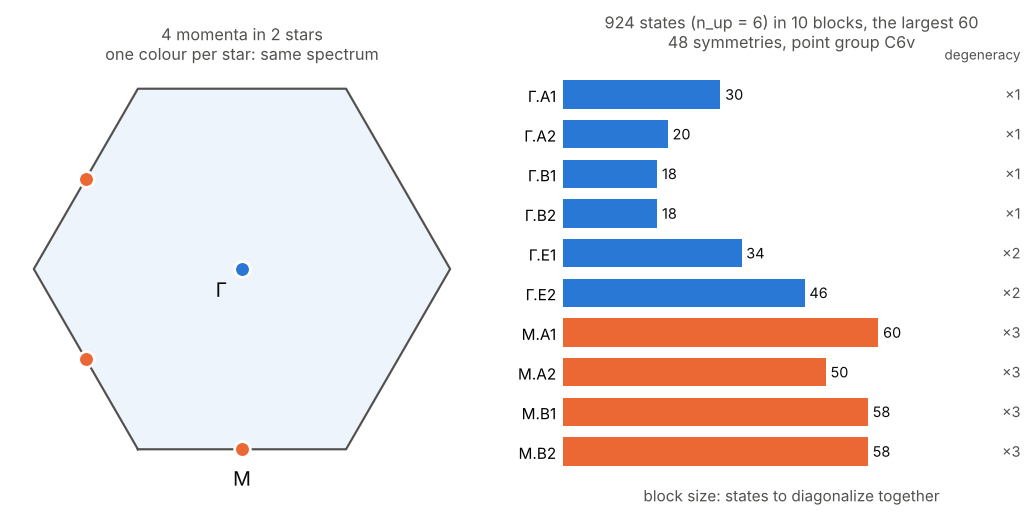
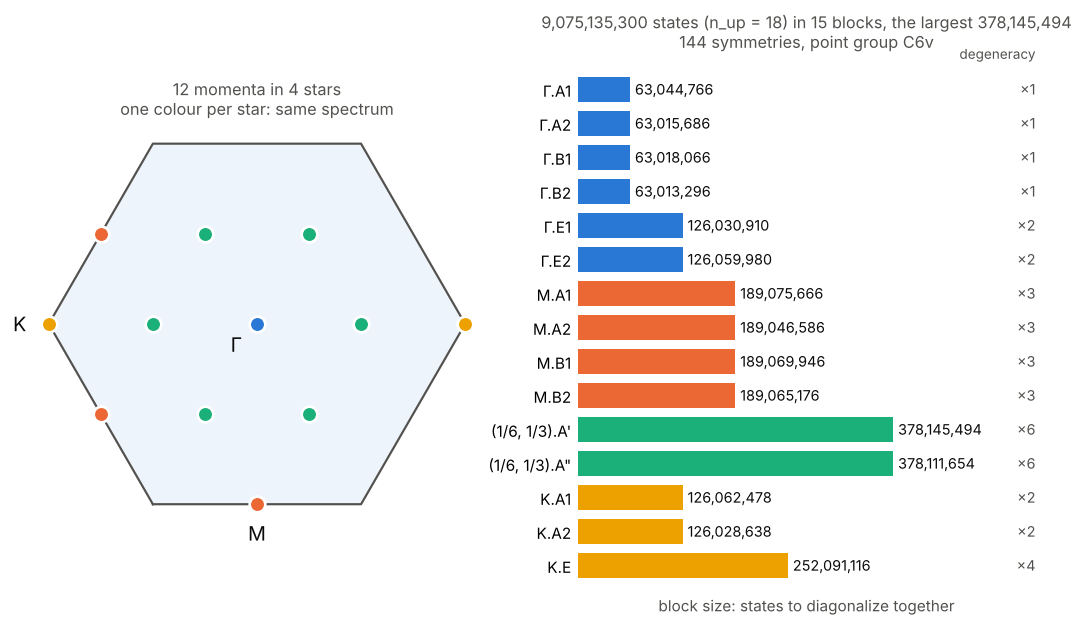
README: 36-site kagome cluster in the quick start
Its 12 momenta in 4 stars and 15 sectors show the symmetry analysis
better than the 12-site cluster; the impostor check stays at 12 sites.

Claude-Session: https://claude.ai/code/session_01DVqEEoJWxHpfrQqFLoobKy

diff --git a/scripts/plot_quickstart.py b/scripts/plot_quickstart.py
@@ -1,4 +1,4 @@
-"""Figure for the README quick start: the certified 12-site kagome cluster, drawn by cc.plot(details=True).
+"""Figure for the README quick start: the certified 36-site kagome cluster, drawn by cc.plot.
 
 Run from the repository root: python scripts/plot_quickstart.py -> docs/quickstart.png (a second).
 """
@@ -12,7 +12,7 @@ import matplotlib.pyplot as plt  # noqa: E402
 import clustercert as cc  # noqa: E402
 
 ROOT = Path(__file__).resolve().parents[1]
-result = cc.certify(cc.read_edges(ROOT / 'examples' / 'clusters' / 'kagome_12.txt'), 'kagome')
-cc.plot(result, details=True)
+result = cc.certify(cc.read_edges(ROOT / 'examples' / 'clusters' / 'kagome_36.txt'), 'kagome')
+cc.plot(result)
 plt.savefig(ROOT / 'docs' / 'quickstart.png', dpi=150, bbox_inches='tight', facecolor='white')
 print('wrote docs/quickstart.png')

diff --git a/scripts/plot_symmetry.py b/scripts/plot_symmetry.py
@@ -21,7 +21,7 @@ def save(name):
     print(f'wrote docs/{name}')
 
 
-cc.symmetry(cc.certify(cc.read_edges(CLUSTERS / 'kagome_12.txt'), 'kagome')).plot(n_up=6)
+cc.symmetry(cc.certify(cc.read_edges(CLUSTERS / 'kagome_36.txt'), 'kagome')).plot(n_up=18)
 save('symmetry_quickstart.png')
 cc.symmetry(cc.certify(cc.read_edges(CLUSTERS / 'kagome_36.txt'), 'kagome')).plot(n_up=18, mosaic=True)
 save('symmetry_mosaic.png')

diff --git a/README.md b/README.md
@@ -6,61 +6,71 @@ Check that a finite graph, such as the bond list of an exact-diagonalization clu
 
 ## Quick start
 
-Suppose someone hands you this 12-site bond list and says it is a kagome cluster with periodic boundary conditions:
+Suppose someone hands you this 36-site bond list and says it is a kagome cluster with periodic boundary conditions:
 
 ```python
 import clustercert as cc
 
-edges = [(0, 1), (0, 3), (0, 4), (0, 10), (1, 2), (1, 4), (1, 11), (2, 3), (2, 5), (2, 11), (3, 5), (3, 10),
-         (4, 6), (4, 9), (5, 7), (5, 8), (6, 7), (6, 9), (6, 10), (7, 8), (7, 10), (8, 9), (8, 11), (9, 11)]
+edges = [(0, 1), (0, 4), (0, 20), (0, 28), (1, 2), (1, 4), (1, 35), (2, 3), (2, 5), (2, 35), (3, 5), (3, 16),
+         (3, 21), (4, 9), (4, 10), (5, 11), (5, 12), (6, 7), (6, 16), (6, 31), (6, 34), (7, 8), (7, 16), (7, 32),
+         (8, 9), (8, 17), (8, 32), (9, 10), (9, 17), (10, 11), (10, 18), (11, 12), (11, 18), (12, 13), (12, 19),
+         (13, 14), (13, 19), (13, 29), (14, 15), (14, 20), (14, 29), (15, 20), (15, 30), (15, 33), (16, 21),
+         (17, 22), (17, 23), (18, 24), (18, 25), (19, 26), (19, 27), (20, 28), (21, 22), (21, 29), (22, 23),
+         (22, 29), (23, 24), (23, 30), (24, 25), (24, 30), (25, 26), (25, 31), (26, 27), (26, 31), (27, 28),
+         (27, 32), (28, 32), (30, 33), (31, 34), (33, 34), (33, 35), (34, 35)]
 result = cc.certify(edges, 'kagome')
 print(cc.summary(result))
-cc.plot(result, details=True)
+cc.plot(result)
 ```
 
 ```text
-YES: periodic kagome cluster, periods [[2, 0], [0, 2]]
+YES: periodic kagome cluster, periods [[2, 2], [0, 6]]
   periods (in primitive vectors -> Cartesian):
-    (2, 0) -> (2, 0)
-    (0, 2) -> (1, 1.732)
+    (4, -2) -> (3, -1.732)
+    (2, 2) -> (3, 1.732)
   site map, your label -> (unit cell, sublattice):
-    0 -> (0, 1), 1
-    1 -> (0, 1), 0
+    0 -> (0, 3), 1
+    1 -> (0, 3), 2
+    2 -> (1, 0), 1
     ...
-  4 allowed momenta (in reciprocal primitive vectors): (0, 0), (0, 1/2), (1/2, 0), (1/2, 1/2)
+  12 allowed momenta (in reciprocal primitive vectors): (0, 0), (0, 1/2), (1/6, 1/3), (1/6, 5/6), (1/3, 1/6), (1/3, 2/3), (1/2, 0), (1/2, 1/2), (2/3, 1/3), (2/3, 5/6), (5/6, 1/6), (5/6, 2/3)
 ```
 
 ![the certified cluster](docs/quickstart.png)
 
-That is your cluster, drawn with your own labels. Each shaded tile is one unit cell of the kagome lattice, labelled with its coordinates c in units of the primitive vectors a₁ and a₂ (the arrows below). Each site is coloured by its sublattice, one of the three sites of a unit cell. So site 9 is sublattice 0 of unit cell (0, 0), exactly as the site map says. A bond that wraps around the boundary ends on a dashed circle labelled with the site it wraps to. The site map is the certificate: under it, your 24 bonds are exactly the kagome bonds folded by those periods.
+That is your cluster, drawn with your own labels and folded into its supercell (the blue rhombus). A bond that wraps around the boundary ends on a dashed circle labelled with the site it wraps to. The site map is the certificate: under it, your 72 bonds are exactly the kagome bonds folded by those periods. `cc.plot(result, details=True)` draws the cluster in its unit cells instead, with sites coloured by sublattice, exactly as the site map lists them.
 
 The certificate also gives the cluster's symmetries, ready for exact diagonalization:
 
 ```python
 sym = cc.symmetry(result)
-print(sym.summary(n_up=6))
-sym.plot(n_up=6)
+print(sym.summary(n_up=18))
+sym.plot(n_up=18)
 ```
 
 ```text
-symmetry of the periodic kagome cluster, periods [[2, 0], [0, 2]]
-  12 sites, 48 lattice symmetries = 4 translations x 12 point operations (point group C6v; the infinite lattice has C6v, 12 operations)
+symmetry of the periodic kagome cluster, periods [[2, 2], [0, 6]]
+  36 sites, 144 lattice symmetries = 12 translations x 12 point operations (point group C6v; the infinite lattice has C6v, 12 operations)
   every automorphism of the bond graph is a lattice symmetry
   point operations: E, C6 x2, C3 x2, C2, σ x6
-  4 momenta in 2 stars, k in reciprocal primitive vectors:
-    name  k         star  little co-group  irreps, (dimension) if not 1
-    Γ     (0, 0)       1  C6v              A1 A2 B1 B2 E1(2) E2(2)
-    M     (0, 1/2)     3  C2v              A1 A2 B1 B2
-  block sizes (n_up = 6; each level is (star x dimension)-fold degenerate):
-    Γ: A1 30, A2 20, B1 18, B2 18, E1 34, E2 46
-    M: A1 60, A2 50, B1 58, B2 58
+  12 momenta in 4 stars, k in reciprocal primitive vectors:
+    name  k           star  little co-group  irreps, (dimension) if not 1
+    Γ     (0, 0)         1  C6v              A1 A2 B1 B2 E1(2) E2(2)
+    M     (0, 1/2)       3  C2v              A1 A2 B1 B2
+          (1/6, 1/3)     6  Cs               A' A"
+    K     (1/3, 2/3)     2  C3v              A1 A2 E(2)
+  block sizes (n_up = 18; each level is (star x dimension)-fold degenerate):
+    Γ: A1 63044766, A2 63015686, B1 63018066, B2 63013296, E1 126030910, E2 126059980
+    M: A1 189075666, A2 189046586, B1 189069946, B2 189065176
+    (1/6, 1/3): A' 378145494, A" 378111654
+    K: A1 126062478, A2 126028638, E 252091116
 ```
 
 ![the symmetry sectors of the cluster](docs/symmetry_quickstart.png)
 
-The cluster keeps the full hexagonal symmetry of kagome. Its 4 momenta form 2 *stars* (left: momenta of one colour have the same spectrum), and the operations that keep each momentum split it further into *irreps*. So the 924 states at zero magnetization split into 10 blocks of at most 60 (right), and each level in a block repeats as often as the number on the right. The permutations and characters behind each block are in `sym`; see [Symmetry sectors](#symmetry-sectors).
+Read it from the top. The cluster keeps all 12 rotations and reflections of the hexagon (the point group C6v), so it has 12 × 12 = 144 symmetries. Its 12 momenta fall into 4 *stars*: momenta that a rotation turns into each other, and that therefore have the same spectrum (left, one colour per star). At one momentum per star, the operations that keep that momentum (its *little co-group*) split the states further into *irreps*, named A1, E2 and so on. Each sector is labelled `momentum.irrep`, for example `Γ.A1` or `K.E`. At zero magnetization (18 up spins) the 9 075 135 300 states become 15 blocks of at most 378 million (right). Every level in `K.E` is 2 × 2 = 4-fold degenerate: a star of 2 times an irrep of dimension 2. If these words are new, [`docs/TERMINOLOGY.md`](docs/TERMINOLOGY.md) explains them from scratch, with pictures and a worked example on this cluster. The permutations and characters behind each block are in `sym`; see [Symmetry sectors](#symmetry-sectors).
 
-Now a second list. It also has 12 sites and 24 bonds, every site has 4 neighbours, and every site lies in two corner-sharing triangles, just as in kagome:
+Now a 12-site list. It has 24 bonds, every site has 4 neighbours, and every site lies in two corner-sharing triangles, just as in kagome:
 
 ```python
 impostor = [(0, 1), (0, 2), (0, 3), (0, 4), (1, 2), (1, 7), (1, 9), (2, 8), (2, 11), (3, 4), (3, 5), (3, 6),
@@ -72,7 +82,7 @@ print(cc.summary(cc.certify(impostor, 'kagome')))
 NO: not a periodic kagome cluster: none of the 7 possible supercells of 4 unit cells matches
 ```
 
-Every way of folding kagome into 12 sites was tried, and none gives this graph. Both lists are in [`examples/clusters/`](examples/clusters), so the same check runs from the shell: `clustercert examples/clusters/kagome_12.txt kagome`. Built-in lattices: square, triangular, honeycomb, kagome, checkerboard, cubic, bcc, fcc, diamond, pyrochlore.
+Every way of folding kagome into 12 sites was tried, and none gives this graph. Both lists are in [`examples/clusters/`](examples/clusters), so the same checks run from the shell: `clustercert examples/clusters/kagome_36.txt kagome --symmetry --n-up 18`. Built-in lattices: square, triangular, honeycomb, kagome, checkerboard, cubic, bcc, fcc, diamond, pyrochlore.
 
 The rest of this page explains what is going on, step by step. The tour notebook [`examples/tour.ipynb`](examples/tour.ipynb) follows the same path, with pictures.
 
@@ -272,34 +282,9 @@ Example clusters are in [`examples/clusters/`](examples/clusters). They include 
 
 ## Symmetry sectors
 
-A certified cluster is a folded lattice, so its symmetries follow from the lattice: every rotation, reflection and translation that survives the folding, written as a permutation of *your* site labels, and the sectors they split the Hilbert space into. For the 36-site kagome cluster:
+A certified cluster is a folded lattice, so its symmetries follow from the lattice: every rotation, reflection and translation that survives the folding, written as a permutation of *your* site labels, and the sectors they split the Hilbert space into. The [quick start](#quick-start) shows them for the 36-site kagome cluster.
 
-```python
-sym = cc.symmetry(cc.certify(cc.read_edges('examples/clusters/kagome_36.txt'), 'kagome'))
-print(sym.summary(n_up=18))
-```
-
-```text
-symmetry of the periodic kagome cluster, periods [[2, 2], [0, 6]]
-  36 sites, 144 lattice symmetries = 12 translations x 12 point operations (point group C6v; the infinite lattice has C6v, 12 operations)
-  every automorphism of the bond graph is a lattice symmetry
-  point operations: E, C6 x2, C3 x2, C2, σ x6
-  12 momenta in 4 stars, k in reciprocal primitive vectors:
-    name  k           star  little co-group  irreps, (dimension) if not 1
-    Γ     (0, 0)         1  C6v              A1 A2 B1 B2 E1(2) E2(2)
-    M     (0, 1/2)       3  C2v              A1 A2 B1 B2
-          (1/6, 1/3)     6  Cs               A' A"
-    K     (1/3, 2/3)     2  C3v              A1 A2 E(2)
-  block sizes (n_up = 18; each level is (star x dimension)-fold degenerate):
-    Γ: A1 63044766, A2 63015686, B1 63018066, B2 63013296, E1 126030910, E2 126059980
-    M: A1 189075666, A2 189046586, B1 189069946, B2 189065176
-    (1/6, 1/3): A' 378145494, A" 378111654
-    K: A1 126062478, A2 126028638, E 252091116
-```
-
-Read it from the top. The cluster keeps all 12 rotations and reflections of the hexagon (the point group C6v), so it has 12 × 12 = 144 symmetries. Its 12 momenta fall into 4 *stars*: momenta that a rotation turns into each other, and that therefore have the same spectrum. At one momentum per star, the operations that keep that momentum (its *little co-group*) split the states further into *irreps*, named A1, E2 and so on. Each sector is labelled `momentum.irrep`, for example `Γ.A1` or `K.E`. At zero magnetization (18 up spins) the 9 075 135 300 states become blocks of about 63 million at Γ. Every level in `K.E` is 2 × 2 = 4-fold degenerate: a star of 2 times an irrep of dimension 2. If these words are new, [`docs/TERMINOLOGY.md`](docs/TERMINOLOGY.md) explains them from scratch, with pictures and a worked example on this cluster. From the shell: `clustercert examples/clusters/kagome_36.txt kagome --symmetry --n-up 18`.
-
-**Pictures.** `sym.plot(n_up)` draws the momenta and the blocks, as above. `sym.plot(n_up, mosaic=True)` shows the whole Hilbert space as one rectangle instead, with a column per star and a tile per sector, each as large as its number of states:
+**Pictures.** `sym.plot(n_up)` draws the momenta and the blocks, as in the quick start. `sym.plot(n_up, mosaic=True)` shows the whole Hilbert space as one rectangle instead, with a column per star and a tile per sector, each as large as its number of states:
 
 ![the 36-site kagome cluster as a mosaic of sectors](docs/symmetry_mosaic.png)
 
